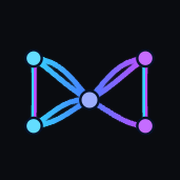
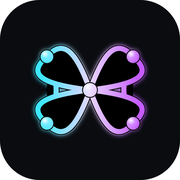
Refresh Meshloom branding assets
Updates the app branding from the old icon set to Meshloom SVG assets, including refreshed favicons, manifest images, and new mark/logo vector files. The frontend status and about screens now use the new SVG mark/logo, and a few formatting-only frontend/test cleanups were included alongside the asset refresh.

diff --git a/frontend/src/components/GifPicker.tsx b/frontend/src/components/GifPicker.tsx
@@ -74,24 +74,27 @@ export function GifPicker({ onSelect, onClose, disabled = false }: GifPickerProp
       return;
     }
     const requestId = ++requestIdRef.current;
-    const timer = window.setTimeout(() => {
-      setLoading(true);
-      setError(null);
-      void fetchGiphy(query, apiKey)
-        .then((next) => {
-          if (requestIdRef.current !== requestId) return;
-          setResults(next);
-        })
-        .catch(() => {
-          if (requestIdRef.current !== requestId) return;
-          setResults([]);
-          setError(t('chat.gifError'));
-        })
-        .finally(() => {
-          if (requestIdRef.current !== requestId) return;
-          setLoading(false);
-        });
-    }, query.trim() ? 300 : 0);
+    const timer = window.setTimeout(
+      () => {
+        setLoading(true);
+        setError(null);
+        void fetchGiphy(query, apiKey)
+          .then((next) => {
+            if (requestIdRef.current !== requestId) return;
+            setResults(next);
+          })
+          .catch(() => {
+            if (requestIdRef.current !== requestId) return;
+            setResults([]);
+            setError(t('chat.gifError'));
+          })
+          .finally(() => {
+            if (requestIdRef.current !== requestId) return;
+            setLoading(false);
+          });
+      },
+      query.trim() ? 300 : 0
+    );
     return () => {
       window.clearTimeout(timer);
     };

diff --git a/frontend/src/components/settings/SettingsAboutSection.tsx b/frontend/src/components/settings/SettingsAboutSection.tsx
@@ -18,12 +18,22 @@ export function SettingsAboutSection({
       <div className="space-y-6">
         {/* Version */}
         <div className="text-center space-y-2">
-          <img
-            src="./meshloom-logo.png"
-            alt="Meshloom"
-            className="mx-auto h-36 w-auto object-contain"
-          />
-          <h3 className="sr-only">Meshloom</h3>
+          <div className="flex flex-col items-center gap-3">
+            <img
+              src="./meshloom-mark.svg"
+              alt=""
+              className="h-24 w-auto object-contain [filter:drop-shadow(0_0_16px_rgba(34,211,238,0.18))_drop-shadow(0_0_20px_rgba(191,90,242,0.2))]"
+            />
+            <h3
+              aria-label="Meshloom"
+              className="text-3xl font-semibold tracking-tight text-foreground"
+            >
+              <span>Mesh</span>
+              <span className="bg-[linear-gradient(90deg,#22D3EE_0%,#BF5AF2_100%)] bg-clip-text text-transparent">
+                loom
+              </span>
+            </h3>
+          </div>
           <div className="text-sm text-muted-foreground">
             v{version}
             {commit ? (

diff --git a/frontend/src/components/MessageList.tsx b/frontend/src/components/MessageList.tsx
@@ -125,15 +125,7 @@ function GifPayload({ gifId, rawText }: { gifId: string; rawText: string }) {
   );
 }
 
-function LocationPayload({
-  lat,
-  lon,
-  label,
-}: {
-  lat: number;
-  lon: number;
-  label: string;
-}) {
+function LocationPayload({ lat, lon, label }: { lat: number; lon: number; label: string }) {
   const { t } = useTranslation();
   const url = locationMapUrl(lat, lon);
   const coords = `${lat.toFixed(5)}, ${lon.toFixed(5)}`;
@@ -148,7 +140,9 @@ function LocationPayload({
     >
       <MapPin className="h-4 w-4 shrink-0 text-primary" aria-hidden="true" />
       <span className="min-w-0">
-        <span className="block text-sm font-medium leading-tight">{label || t('messageList.locationAlt')}</span>
+        <span className="block text-sm font-medium leading-tight">
+          {label || t('messageList.locationAlt')}
+        </span>
         <span className="block text-[0.6875rem] text-muted-foreground tabular-nums">{coords}</span>
       </span>
     </a>

diff --git a/frontend/src/components/MessageInput.tsx b/frontend/src/components/MessageInput.tsx
@@ -78,7 +78,16 @@ function draftIdentityOf(
 }
 
 export const MessageInput = forwardRef<MessageInputHandle, MessageInputProps>(function MessageInput(
-  { onSend, disabled, placeholder, conversationType, conversationId, senderName, radioLat, radioLon },
+  {
+    onSend,
+    disabled,
+    placeholder,
+    conversationType,
+    conversationId,
+    senderName,
+    radioLat,
+    radioLon,
+  },
   ref
 ) {
   const { t } = useTranslation();

diff --git a/frontend/src/test/sidebar.test.tsx b/frontend/src/test/sidebar.test.tsx
@@ -831,7 +831,9 @@ describe('Sidebar section summaries', () => {
       'true'
     );
 
-    const monograms = screen.getAllByTestId('channel-rail-monogram').map((node) => node.textContent);
+    const monograms = screen
+      .getAllByTestId('channel-rail-monogram')
+      .map((node) => node.textContent);
     expect(monograms).toEqual(expect.arrayContaining(['PU', 'FL', 'OP']));
     expect(monograms).not.toContain('#');
   });

diff --git a/frontend/src/components/StatusBar.tsx b/frontend/src/components/StatusBar.tsx
@@ -200,7 +200,7 @@ export function StatusBar({
         className="text-base font-semibold tracking-tight mr-auto text-foreground flex items-center gap-2"
       >
         <img
-          src="./meshloom-mark.png"
+          src="./meshloom-mark.svg"
           alt=""
           className="h-7 w-7 shrink-0 [filter:drop-shadow(0_0_8px_rgba(34,211,238,0.28))_drop-shadow(0_0_10px_rgba(191,90,242,0.28))]"
         />

diff --git a/frontend/src/utils/meshcoreOpenPayloads.ts b/frontend/src/utils/meshcoreOpenPayloads.ts
@@ -116,7 +116,14 @@ export interface ParsedLocation {
 }
 
 function isFiniteCoordinate(lat: number, lon: number): boolean {
-  return Number.isFinite(lat) && Number.isFinite(lon) && lat >= -90 && lat <= 90 && lon >= -180 && lon <= 180;
+  return (
+    Number.isFinite(lat) &&
+    Number.isFinite(lon) &&
+    lat >= -90 &&
+    lat <= 90 &&
+    lon >= -180 &&
+    lon <= 180
+  );
 }
 
 /**

diff --git a/tests/test_migrations/test_migration_066.py b/tests/test_migrations/test_migration_066.py
@@ -31,7 +31,9 @@ class TestMigration066:
 
             columns = {
                 row[1]
-                for row in await (await conn.execute("PRAGMA table_info(directory_hop_cache)")).fetchall()
+                for row in await (
+                    await conn.execute("PRAGMA table_info(directory_hop_cache)")
+                ).fetchall()
             }
             assert {"public_key", "lat", "lon"} <= columns
         finally:
